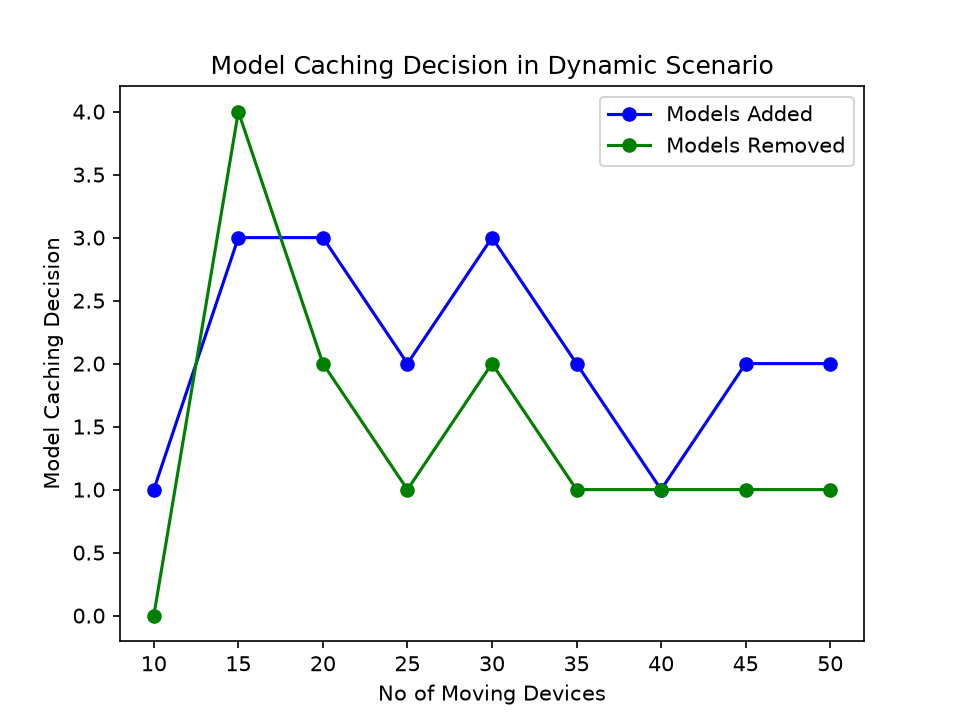
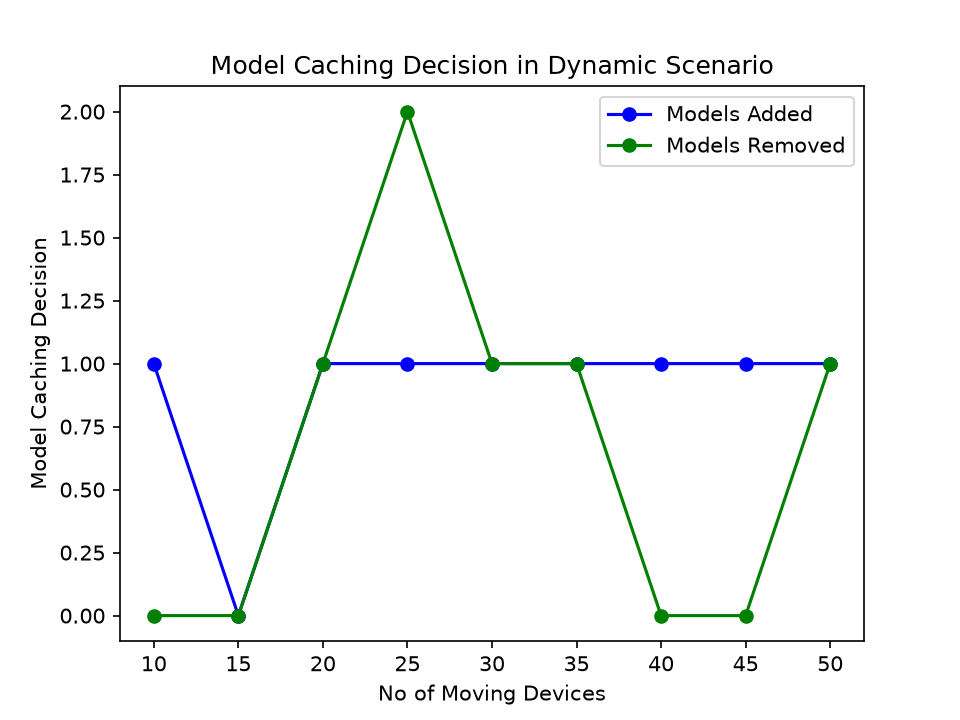
DynMCS changes done

diff --git a/Code/MEC/DynMCS.py b/Code/MEC/DynMCS.py
@@ -1,11 +1,39 @@
 from Algos.Classes.EdgeServer import EdgeServer
 from Algos.Classes.Model import (Model)
 from Algos.Classes.ED import ED
-from typing import List, Set, Dict
+from typing import List, Set, Dict, Tuple
 from Algos.MUMS import pot_offloaders
 from Algos.SingletonUM import SUM
+from Temp import Temp
+import os
+import pandas as pd
 
-def demanded_models_potoffls(demanded_models: Set[Model], eds: List[ED]): #returns dictionary of models mapped to its potential offloaders inside Edge Server
+BASE_DIR = os.path.dirname(os.path.abspath(__file__))
+
+user_coords_file_path = os.path.join(
+    BASE_DIR,
+    "MUA",
+    "Dataset",
+    "site-optus-melbCBD.csv"
+)
+
+edge_server_data = pd.read_csv(user_coords_file_path)
+
+edge_server_lats = edge_server_data["LATITUDE"].head(5)  # Edge Server Latitude
+edge_server_longs = edge_server_data["LONGITUDE"].head(5)  # Edge Server Longitude
+edge_server_coords = pd.DataFrame((edge_server_lats, edge_server_longs))  # Combined coordinates
+
+server_lat, server_long = edge_server_coords[0]  # Server Coorinates assigned
+es = EdgeServer(
+    20,
+    800,
+    1024,
+    server_lat,
+    server_long,
+    800 #Server Range in Meters
+)
+
+def demanded_models_potoffls(demanded_models: Set[Model], eds: List[ED]) -> Dict[Model, List[ED]]: #returns dictionary of models mapped to its potential offloaders inside Edge Server
 
     model_potoffl = dict()
     for model in demanded_models:
@@ -13,22 +41,44 @@ def demanded_models_potoffls(demanded_models: Set[Model], eds: List[ED]): #retur
 
     return model_potoffl
 
-def model_util(es: EdgeServer, model_potoffl: Dict[Model, List[ED]]) -> List[Model]: #calculate marginal utility
+def model_util(es: EdgeServer, model_potoffl: Dict[Model, List[ED]]) -> Dict[Model, float]: #calculate marginal utility
     model_util = dict()
 
     for model in model_potoffl:
-        model_util[model] = SUM(model_potoffl[model],es.W,es.F)/model.storage #calculating marginal utility per model
+        # print(model)
+        pot_offfls = model_potoffl[model]
+        # print(pot_offfls)
+        model_util[model] = SUM(pot_offfls,es.W, es.F)[0]/model.storage #calculating marginal utility per model
 
-    model_list = sorted(model_util, key= model_util.get, reverse=True) #list of models sorted in non-increasing order as per marginal utility
-    return model_list
+    # model_list = sorted(model_util, key= model_util.get, reverse=True) #list of models sorted in non-increasing order as per marginal utility
 
-    
+    return model_util
+
+def fill_temp(pot_offl: Dict[Model, List[ED]], model_util_dict: Dict[Model, float], snapshot: List[ED]): #returns list of temp class
+    list_temp = list()
+
+    for model in model_util_dict:
+        pot_offls = len(pot_offloaders(snapshot, model))
+        marginal_util = model_util_dict[model]
+        temp = Temp(model.storage, marginal_util, pot_offls)
+        list_temp.append(temp)
+
+    return list_temp
+
+
 def DynMCS(es: EdgeServer, snapshot: List[ED]):
-    handoff_eds = [eds for eds in es.EDs not in snapshot] #handed off eds jo edge server ki list me hain but snapshot mein nai
-    handin_eds = [eds for eds in snapshot not in es.EDs] #handed in eds jo edge server ki list me nai hain but snapshot main hain
-
+    print(snapshot)
+    # handoff_eds = [eds for eds in es.EDs not in snapshot] #handed off eds jo edge server ki list me hain but snapshot mein nai
+    # handin_eds = [eds for eds in snapshot not in es.EDs] #handed in eds jo edge server ki list me nai hain but snapshot main hain
     demanded_models = {eds.model for eds in snapshot} #set of new models demanded by eds which are currently inside Edge Server instance
-
+    # print([models.name for models in demanded_models])
     model_potoffl = demanded_models_potoffls(demanded_models, snapshot)
+    # print(model_potoffl)
+    model_util_dict = model_util(es, model_potoffl) #list of models sorted in non-increasing order according to marginal utility
 
-    model_list = model_util(es, model_potoffl) #list of models sorted in non-increasing order according to marginal utility
+    temp_list = fill_temp(model_potoffl, model_util_dict, snapshot) #list of temp class
+    print(temp_list)
+
+# if __name__ == "__main__":
+#     DisCNN(es, )
+#     DynMCS(es, )

diff --git a/Code/MEC/DMUA 2.py b/Code/MEC/DMUA 2.py
@@ -42,45 +42,45 @@ es = EdgeServer(
 #Change 5 in simulate global function wala file, comment out es, all_eds as neccessary, same for DisCNN file
 #Change 6 agar sidha simulate global chalana hain for that, DisCNN se ED parameter remove; invoke DisCNN in the former file, comment first defination of all_eds, run mein comment out NoX, outer_eds, initialize es defined in local file, after all this run file....
 
-no_of_devices = []
-models_added = []
-models_removed = []
+# no_of_devices = []
+# models_added = []
+# models_removed = []
 
-for i in range(10,51,5): #10 ke gap mein EDs initialize honge andar bahar
-    no_of_devices.append(i)
+for i in range(10,11): #10 ke gap mein EDs initialize honge andar bahar
+    # no_of_devices.append(i)
     print(f"Devices initialized {i}")
 
     EDs_in = initialize_EDs(es,i) #i jitne andar
     EDs_out = initialize_ED_out(es,i) #i jitne bahar
 
     NoX = DisCNN(es,
-                 # EDs_in
+                 EDs_in
                  ) #jitne andar hain unko pehle statically assign karo resources
-    X1 = es.X.copy()
-    print({models.name for models in es.X})
+    # X1 = es.X.copy()
+    # print({models.name for models in es.X})
 
     run(NoX, EDs_out, es,6) #run for moving users and dynamic caching decision
 
-    print({models.name for models in es.X})
-    print("*"*50)
-    X2  = es.X.copy()
-    X_ = X2 - X1
-    print("Models added:")
-    print({models.name for models in X_})
-    models_added.append(len(X_))
-
-    X_ = X1 - X2
-    print("Models removed:")
-    print({models.name for models in X_})
-    models_removed.append(len(X_))
-
-    print("=="*50)
-    es.X.clear() #Clear cache for next iteration of devices
-
-plt.plot(no_of_devices,models_added,label = "Models Added",color="blue", marker="o")
-plt.plot(no_of_devices,models_removed,label = "Models Removed",color="green", marker="o")
-plt.xlabel("No of Moving Devices")
-plt.ylabel("Model Caching Decision")
-plt.title("Model Caching Decision in Dynamic Scenario")
-plt.legend()
-plt.savefig('./Results/MCD.png', dpi=150)
+#     print({models.name for models in es.X})
+#     print("*"*50)
+#     X2  = es.X.copy()
+#     X_ = X2 - X1
+#     print("Models added:")
+#     print({models.name for models in X_})
+#     models_added.append(len(X_))
+#
+#     X_ = X1 - X2
+#     print("Models removed:")
+#     print({models.name for models in X_})
+#     models_removed.append(len(X_))
+#
+#     print("=="*50)
+#     es.X.clear() #Clear cache for next iteration of devices
+#
+# plt.plot(no_of_devices,models_added,label = "Models Added",color="blue", marker="o")
+# plt.plot(no_of_devices,models_removed,label = "Models Removed",color="green", marker="o")
+# plt.xlabel("No of Moving Devices")
+# plt.ylabel("Model Caching Decision")
+# plt.title("Model Caching Decision in Dynamic Scenario")
+# plt.legend()
+# plt.savefig('./Results/MCD.png', dpi=150)

diff --git a/Code/MEC/simulate_global_snapshot_with_time.py b/Code/MEC/simulate_global_snapshot_with_time.py
@@ -10,6 +10,7 @@ from Algos.Classes.EdgeServer import EdgeServer
 from Algos.Classes.ED import ED
 from Classes.ED import ED
 from Classes.Model import Model
+from MEC.DynMCS import DynMCS
 # from Graphs.graph_1 import number_of_devices
 from MEC.HaverSineFormula import HaversineFormula
 from MEC.Random_Direction_Model import RandomDirectionModel
@@ -263,7 +264,9 @@ def run(
         # print(len(snapshots[t]))
         # number_of_devices.append((len(snapshots[t])))
         print(f"\n{t:.1f} sec:")
-        DMUMS(es, snapshots[t])
+        # DMUMS(es, snapshots[t])
+        print("DynMCS function called")
+        DynMCS(es, snapshots[t])
 
     # plt.plot(snapshots.keys(), number_of_devices, marker="o")
     # plt.xlabel("Time of 0.5s interval")

diff --git a/Code/MEC/DisCNN.py b/Code/MEC/DisCNN.py
@@ -274,7 +274,7 @@ user_coords_file_path = os.path.join(
 edge_server_data = pd.read_csv(user_coords_file_path)
 
 def DisCNN(es:EdgeServer,
-           # EDs: List[ED]
+           EDs: List[ED]
            ):
 
     # edge_server_lats = edge_server_data["LATITUDE"].head(5)  # Edge Server Latitude
@@ -285,7 +285,7 @@ def DisCNN(es:EdgeServer,
 
     # server = [EdgeServer(20, 800, 1024, 500)]
     esp = ESP(es)
-    EDs = initialize_EDs(es,50) #EDs initialized as within server placement
+    # EDs = initialize_EDs(es,50) #EDs initialized as within server placement
 
 
     # print(*EDs)

diff --git a/Code/MEC/Temp.py b/Code/MEC/Temp.py
@@ -1,0 +1,9 @@
+from dataclasses import dataclass,field
+from typing import List, Set, Dict
+from Algos.Classes.ED import ED
+
+@dataclass
+class Temp:
+    storage: float
+    marginal_util: float
+    count_eds: int
